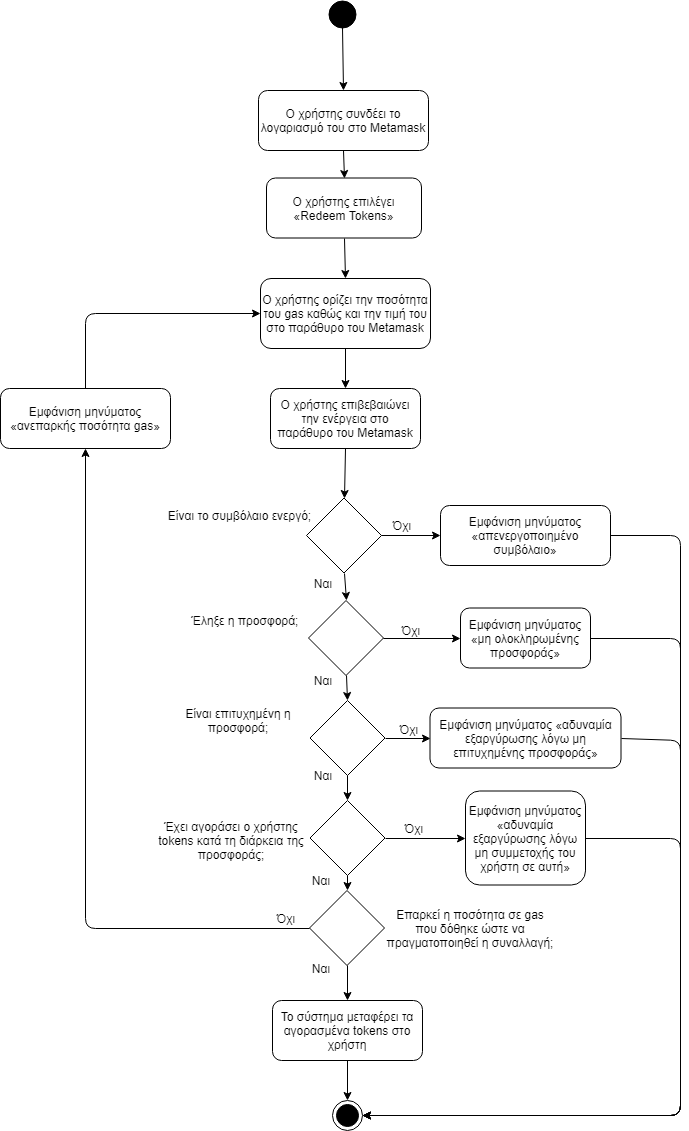
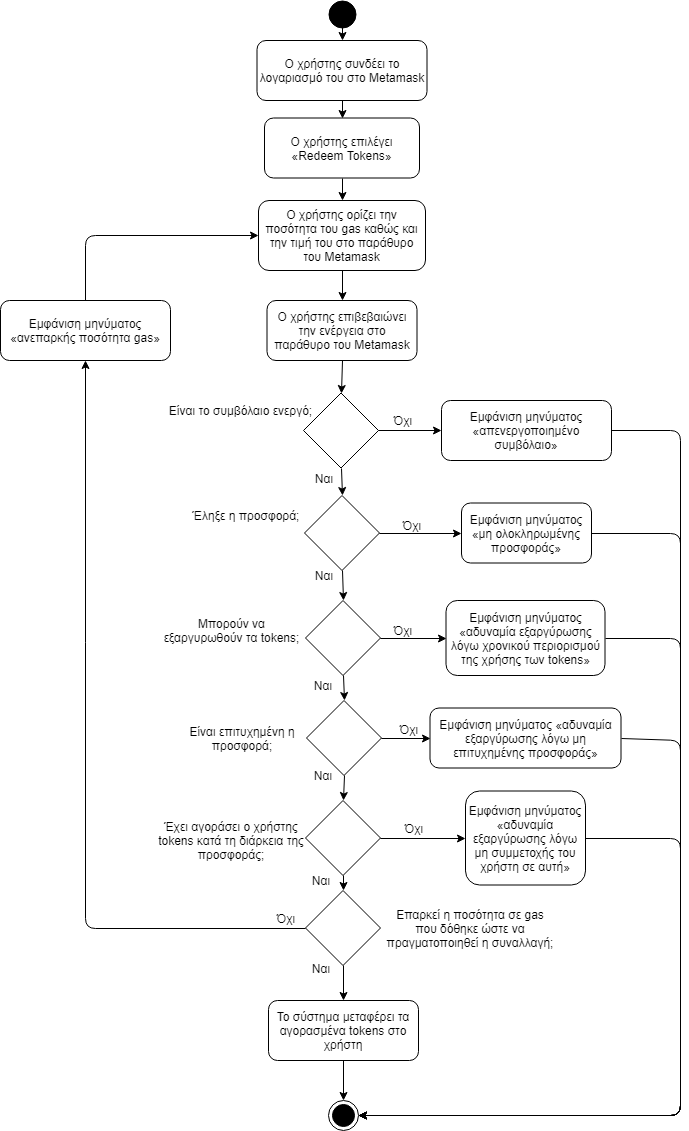
Included the 'redeemable' restriction.

diff --git a/test/PrivateSale/privateSale-redeem-tokens.test.js b/test/PrivateSale/privateSale-redeem-tokens.test.js
@@ -24,7 +24,8 @@ contract("PrivateSale -> redeem tokens", accounts => {
 
         this.end = this.start + privateSale.duration;
 
-        this.redeemableAfter = privateSale.redeemableAfter;
+        this.redeemableAfter = await latestTime();
+        this.redeemableAfter += privateSale.redeemableAfter;
         
         this.privateSale = await PrivateSale.new(
             this.token.address,
@@ -71,6 +72,14 @@ contract("PrivateSale -> redeem tokens", accounts => {
         it("Should be impossible to redeem tokens when sender hasn't bought any during the sale", async () => {
             await this.privateSale.redeemTokens({ from: this.admin })
                 .should.be.rejectedWith("revert");
+        });
+
+        it("Should be impossible to redeem tokens when tokens are not redeemable yet", async () => {
+            await this.privateSale.redeemTokens({ from: this.spender })
+                .should.be.rejectedWith("revert");
+
+            // Make tokens redeemable.
+            await increaseTime(this.redeemableAfter);
         });
 
         it("Should be able to redeem the tokens", async () => {

diff --git a/test/PrivateSale/privateSale-restricted-buy-tokens.test.js b/test/PrivateSale/privateSale-restricted-buy-tokens.test.js
@@ -24,7 +24,8 @@ contract("PrivateSale -> buy tokens (restricted)", accounts => {
 
         this.end = this.start + privateSale.duration;
 
-        this.redeemableAfter = privateSale.redeemableAfter;
+        this.redeemableAfter = await latestTime();
+        this.redeemableAfter += privateSale.redeemableAfter;
         
         this.privateSale = await PrivateSale.new(
             this.token.address,

diff --git a/test/PrivateSale/privateSale-reallocate-tokens.test.js b/test/PrivateSale/privateSale-reallocate-tokens.test.js
@@ -24,7 +24,8 @@ contract("PrivateSale -> reallocate tokens", accounts => {
 
         this.end = this.start + privateSale.duration;
 
-        this.redeemableAfter = privateSale.redeemableAfter;
+        this.redeemableAfter = await latestTime();
+        this.redeemableAfter += privateSale.redeemableAfter;
         
         this.privateSale = await PrivateSale.new(
             this.token.address,

diff --git a/test/PrivateSale/privateSale-refund.test.js b/test/PrivateSale/privateSale-refund.test.js
@@ -24,7 +24,8 @@ contract("PrivateSale -> refund tokens", accounts => {
 
         this.end = this.start + privateSale.duration;
 
-        this.redeemableAfter = privateSale.redeemableAfter;
+        this.redeemableAfter = await latestTime();
+        this.redeemableAfter += privateSale.redeemableAfter;
         
         this.privateSale = await PrivateSale.new(
             this.token.address,

diff --git a/test/PrivateSale/privateSale-buy-tokens.test.js b/test/PrivateSale/privateSale-buy-tokens.test.js
@@ -24,7 +24,8 @@ contract("PrivateSale -> buy tokens", accounts => {
 
         this.end = this.start + privateSale.duration;
 
-        this.redeemableAfter = privateSale.redeemableAfter;
+        this.redeemableAfter = await latestTime();
+        this.redeemableAfter += privateSale.redeemableAfter;
         
         this.privateSale = await PrivateSale.new(
             this.token.address,

diff --git a/test/PrivateSale/privateSale-initialization.test.js b/test/PrivateSale/privateSale-initialization.test.js
@@ -22,7 +22,8 @@ contract("PrivateSale -> initialize", accounts => {
 
         this.end = this.start + privateSale.duration;
 
-        this.redeemableAfter = privateSale.redeemableAfter;
+        this.redeemableAfter = await latestTime();
+        this.redeemableAfter += privateSale.redeemableAfter;
         
         this.privateSale = await PrivateSale.new(
             this.token.address,

diff --git a/test/PrivateSale/privateSale-status.test.js b/test/PrivateSale/privateSale-status.test.js
@@ -23,7 +23,8 @@ contract("PrivateSale -> status", accounts => {
 
         this.end = this.start + privateSale.duration;
 
-        this.redeemableAfter = privateSale.redeemableAfter;
+        this.redeemableAfter = await latestTime();
+        this.redeemableAfter += privateSale.redeemableAfter;
         
         this.privateSale = await PrivateSale.new(
             this.token.address,

diff --git a/test/PrivateSale/privateSale-live.test.js b/test/PrivateSale/privateSale-live.test.js
@@ -23,7 +23,8 @@ contract("PrivateSale -> live", accounts => {
 
         this.end = this.start + privateSale.duration;
 
-        this.redeemableAfter = privateSale.redeemableAfter;
+        this.redeemableAfter = await latestTime();
+        this.redeemableAfter += privateSale.redeemableAfter;
         
         this.privateSale = await PrivateSale.new(
             this.token.address,
